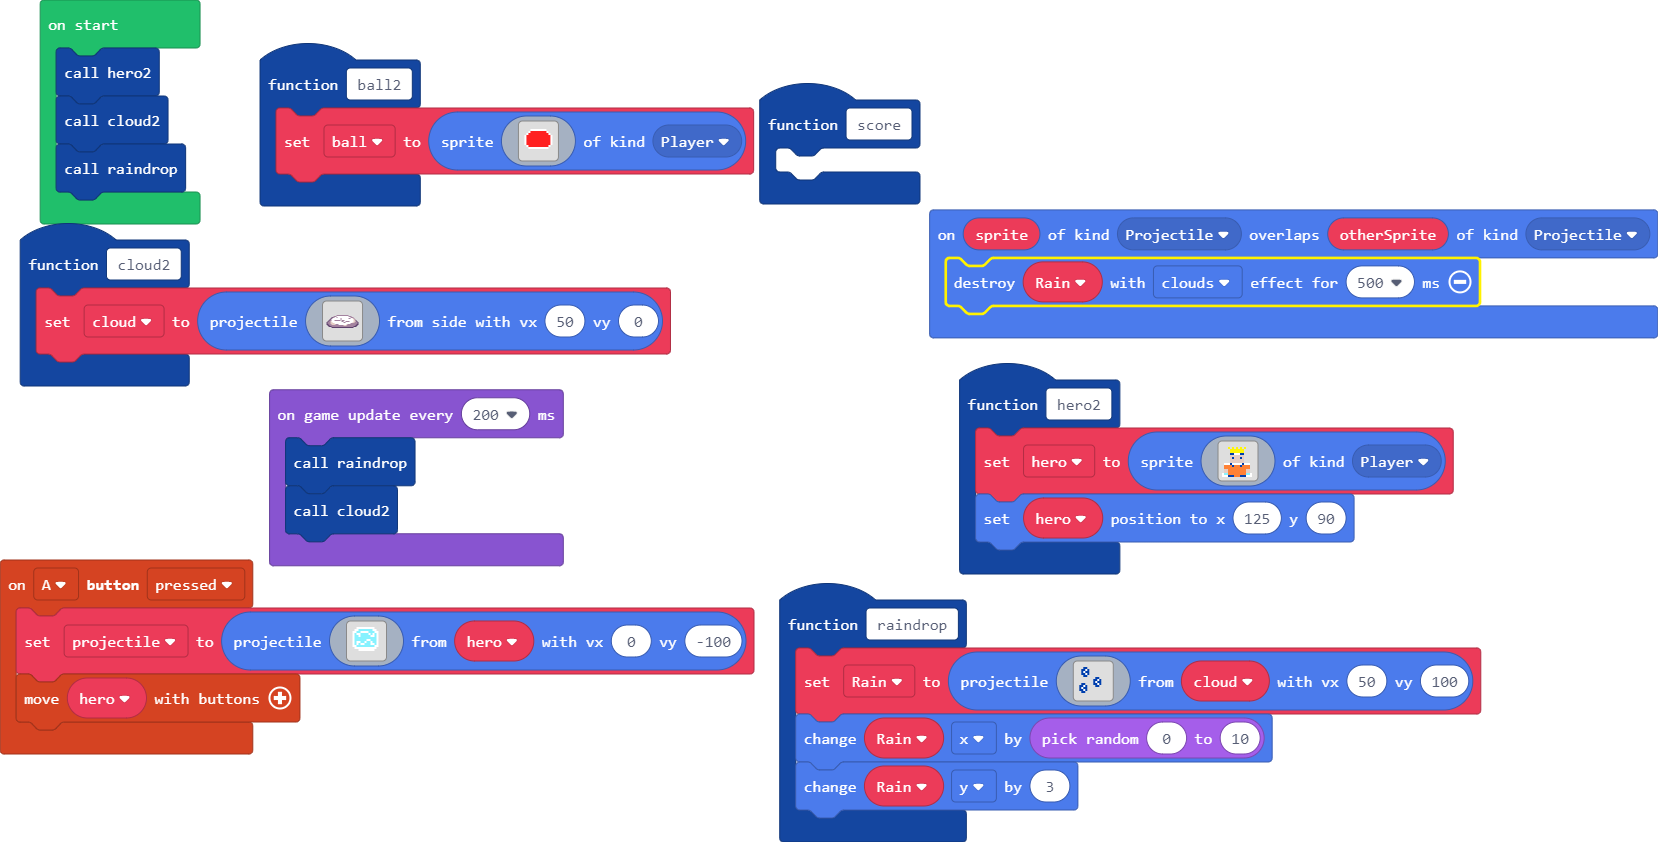
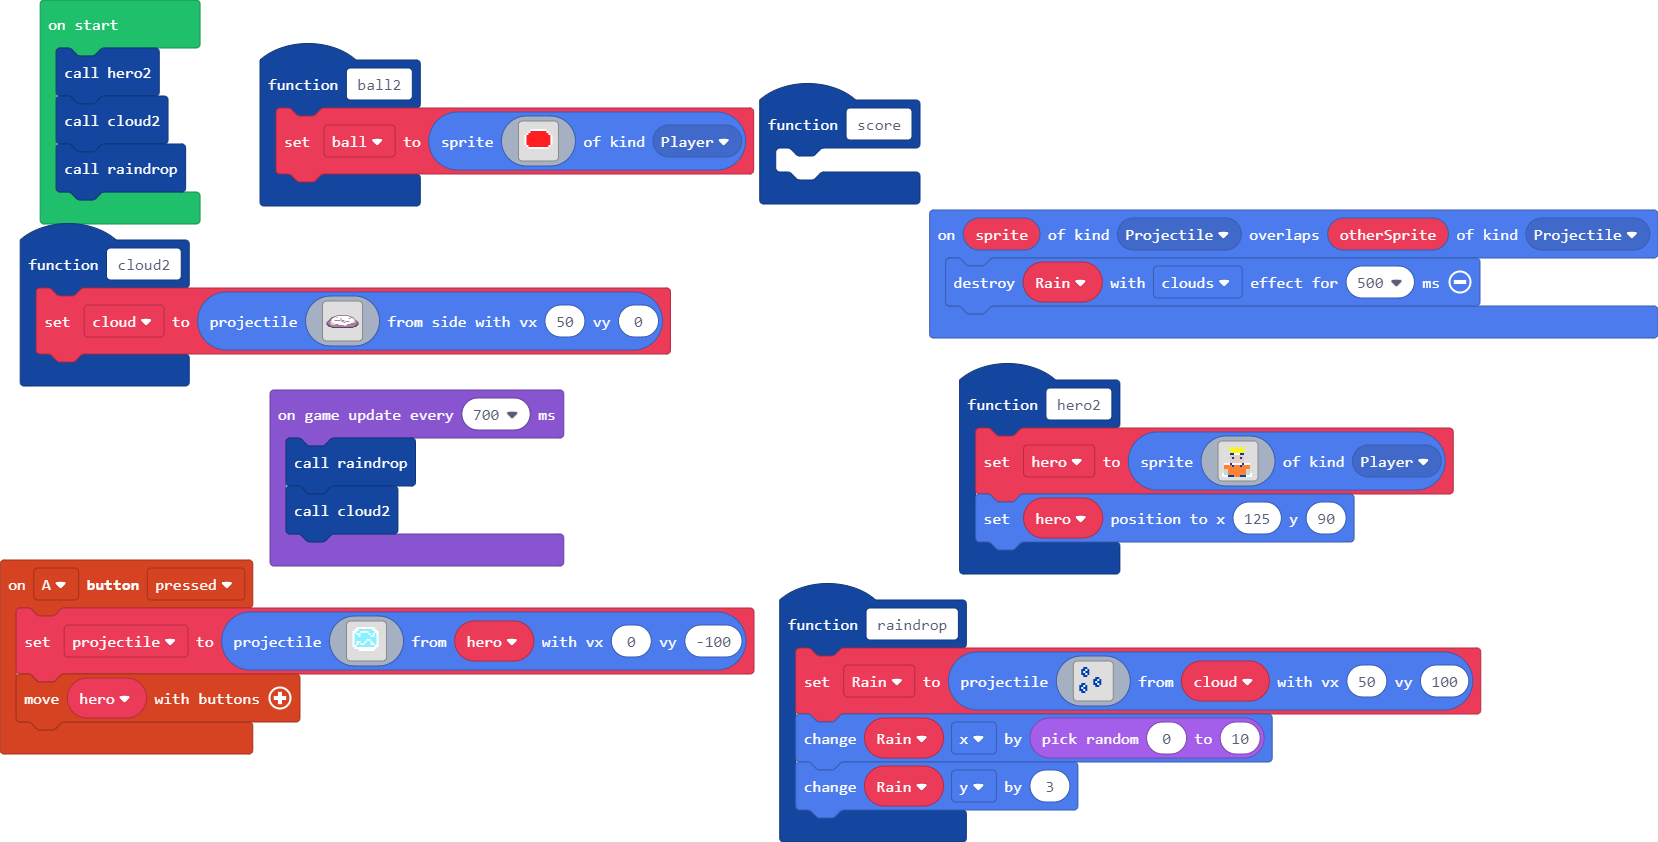
Update main.blocks, main.ts

diff --git a/main.ts b/main.ts
@@ -116,7 +116,7 @@ let hero: Sprite = null
 hero2()
 cloud2()
 raindrop()
-game.onUpdateInterval(200, function () {
+game.onUpdateInterval(700, function () {
     raindrop()
     cloud2()
 })
